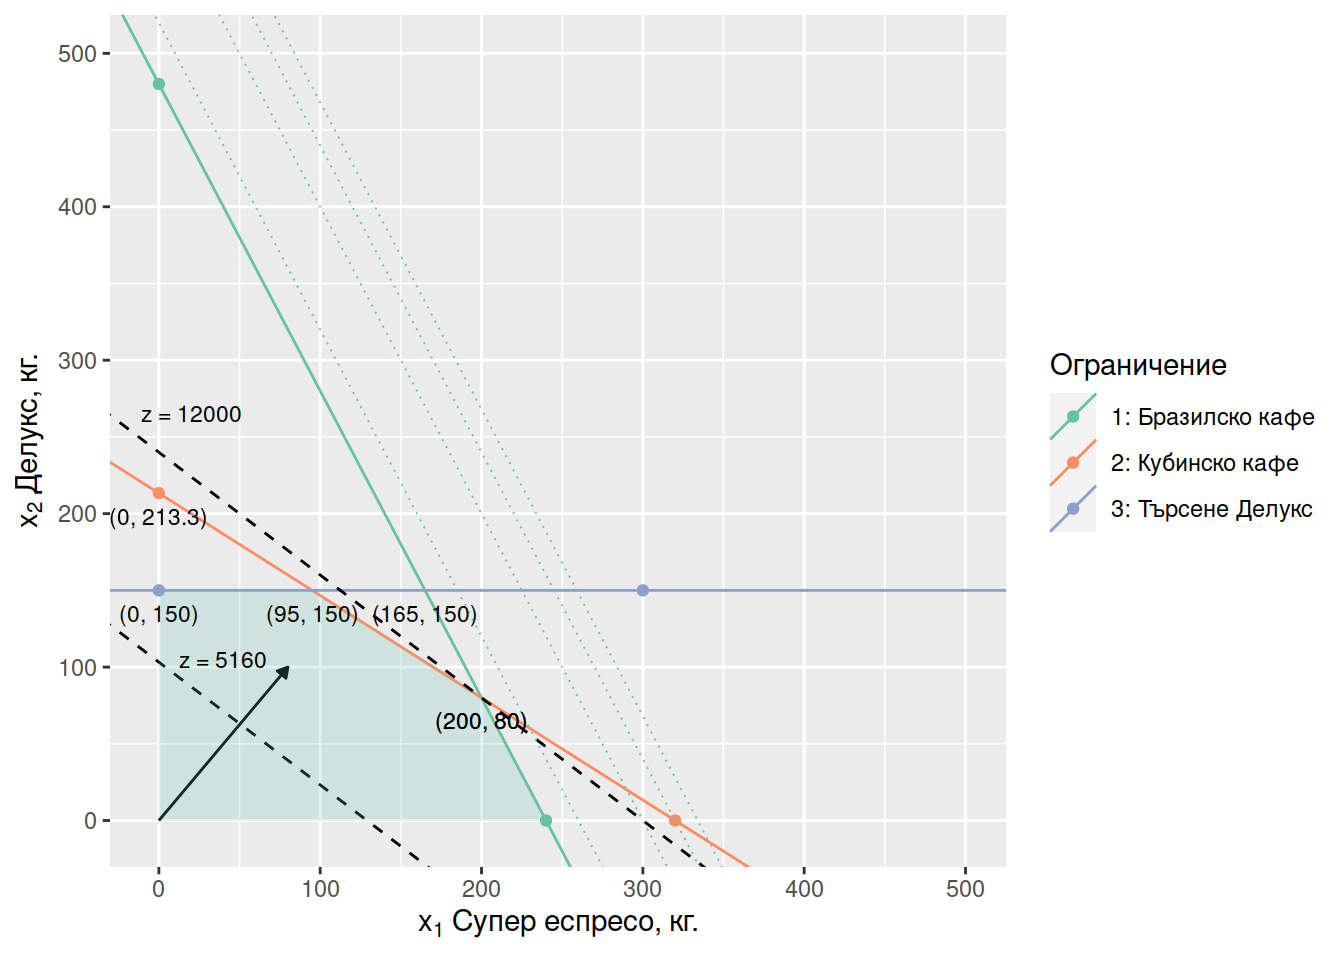
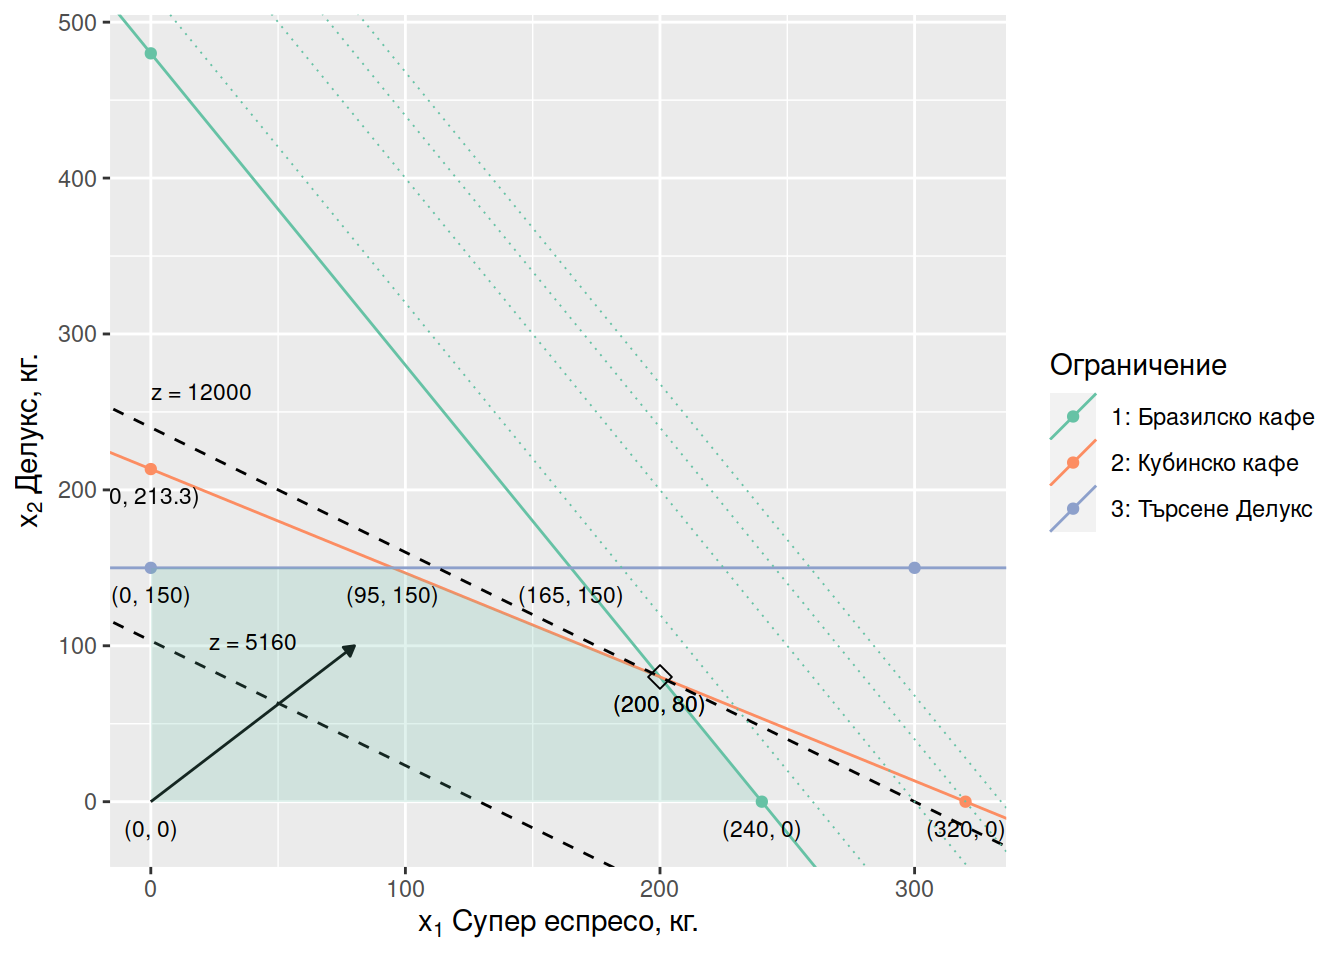
Update book

diff --git a/docs/графичен-метод.html b/docs/графичен-метод.html
@@ -193,7 +193,7 @@ code span.wa { color: #60a0b0; font-weight: bold; font-style: italic; } /* Warni
 бразилско и кубинско кафе, а рецептата за Делукс предвижда смес от бразилско и
 кубинско кафе в пропорция 1 към 3. Доставчиците са готови да осигурят 120 кг
 бразилско и 160 кг. кубинско кафе. Заведението знае, че няма да може да продаде
-повече от 150 кг. Супер еспресо. От всеки продаден килограм Супер еспресо
+повече от 150 кг. Супер еспресо. От всеки продаден килограм Делукс еспресо
 заведението печели 40 лв., докато печалбата от килограм Делукс възлиза на
 50 лв.</p>
 <p>Колко от двата типа кафе ще препоръчате на кафенето да смеси?</p>
@@ -202,11 +202,6 @@ code span.wa { color: #60a0b0; font-weight: bold; font-style: italic; } /* Warni
 </div>
 <div id="допустимо-множество" class="section level3" number="2.1.2">
 <h3><span class="header-section-number">2.1.2</span> Допустимо множество</h3>
-<pre><code>## Warning: Removed 1 rows containing missing values (geom_text).
-
-## Warning: Removed 1 rows containing missing values (geom_text).
-
-## Warning: Removed 1 rows containing missing values (geom_text).</code></pre>
 <p><img src="linprog_files/figure-html/unnamed-chunk-13-1.png" width="672" /></p>
 </div>
 <div id="целева-функция-нормален-вектор" class="section level3" number="2.1.3">
